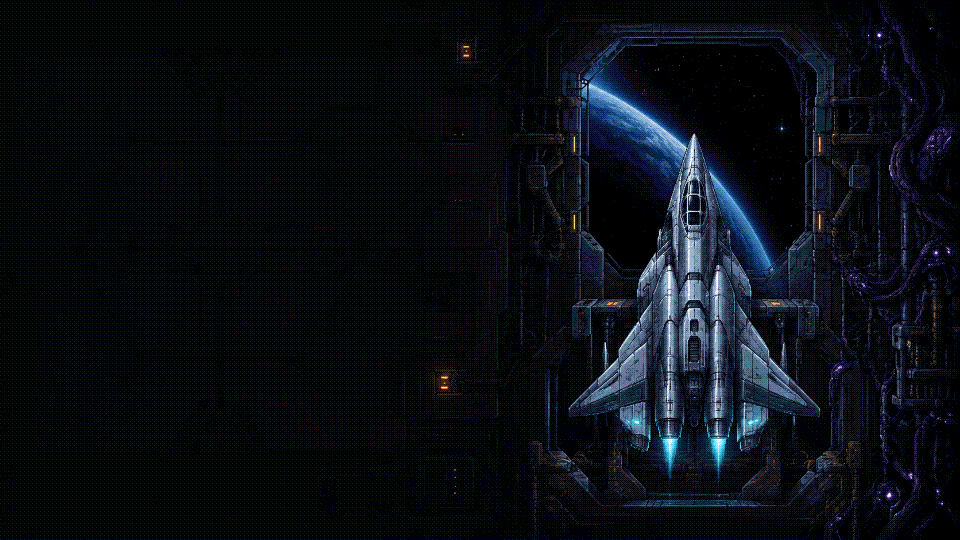
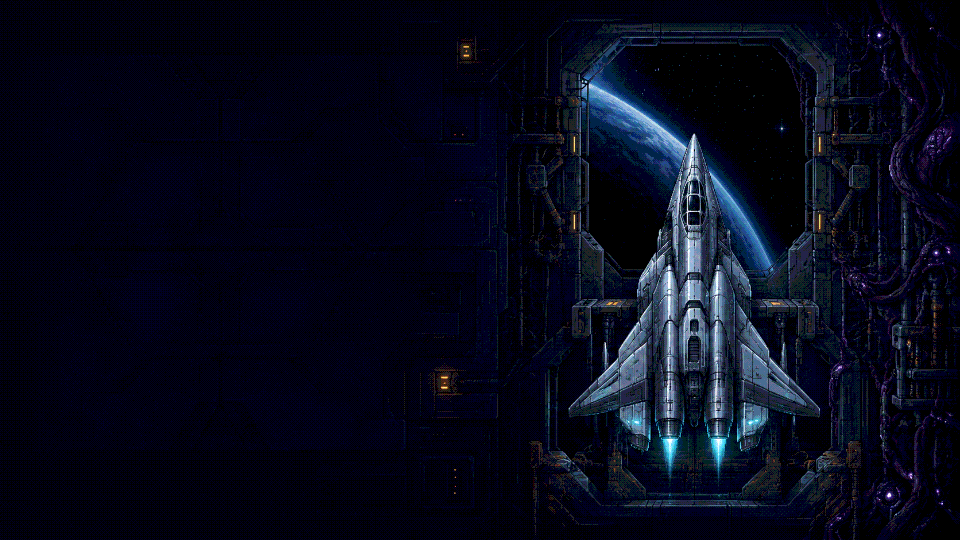
Hero art: gentler dither, half-size render for home; fix narrow-screen grids
The 6/8/6-level dither produced moire when the hero was scaled down on
the home page. Now 8 levels per channel, quieter dither, and the home
page uses a 480x270 render shown at 1:1. Grid columns use minmax(0,1fr)
so long words can't force horizontal scroll on phones.
tools/render-hero.js regenerates both PNGs from the game's WebP.

diff --git a/tools/render-hero.js b/tools/render-hero.js
@@ -1,0 +1,38 @@
+#!/usr/bin/env node
+// Renders assets/spore-wars/hangar.png (960x540) and hangar-half.png (480x270) from the game's
+// menu_hangar.webp: cover-crop, then 4x4 ordered dither to an 8-level-per-channel palette so the
+// PNG is small and looks like a VGA-era image. Uses headless Chrome, no npm packages.
+// Usage: node tools/render-hero.js [path/to/menu_hangar.webp]
+const {execFileSync}=require('child_process'),fs=require('fs'),path=require('path'),os=require('os');
+const SRC=path.resolve(process.argv[2]||path.join(__dirname,'..','..','spore-wars','assets','menu_hangar.webp'));
+const CHROME=[process.env.CHROME,'C:/Program Files/Google/Chrome/Application/chrome.exe',
+  'C:/Program Files (x86)/Microsoft/Edge/Application/msedge.exe','/Applications/Google Chrome.app/Contents/MacOS/Google Chrome',
+  '/usr/bin/google-chrome','/usr/bin/chromium'].filter(Boolean).find(p=>fs.existsSync(p));
+if(!CHROME){console.error('No Chrome/Edge found; set CHROME=<path>');process.exit(1);}
+const OUT=path.join(__dirname,'..','assets','spore-wars');fs.mkdirSync(OUT,{recursive:true});
+const tmp=fs.mkdtempSync(path.join(os.tmpdir(),'640k-hero-'));
+const toUrl=p=>'file:///'+p.split(path.sep).join('/').replace(/ /g,'%20');
+const srcUrl=toUrl(SRC);
+for(const [W,H,name] of [[960,540,'hangar'],[480,270,'hangar-half']]){
+  const page=path.join(tmp,name+'.html');
+  fs.writeFileSync(page,`<body><div id="out"></div><script>
+const W=${W},H=${H},img=new Image();
+img.onload=()=>{const c=document.createElement('canvas');c.width=W;c.height=H;const x=c.getContext('2d');
+ const s=Math.max(W/img.width,H/img.height),dw=img.width*s,dh=img.height*s;
+ x.drawImage(img,(W-dw)*0.62,(H-dh)*0.5,dw,dh);
+ const d=x.getImageData(0,0,W,H),p=d.data,B=[[0,8,2,10],[12,4,14,6],[3,11,1,9],[15,7,13,5]];
+ const L=8,q=v=>Math.round(v*(L-1)/255)*255/(L-1);
+ for(let y=0;y<H;y++)for(let xx=0;xx<W;xx++){const i=(y*W+xx)*4,t=(B[y&3][xx&3]/16-0.5)*(255/20);
+  for(let k=0;k<3;k++)p[i+k]=q(Math.max(0,Math.min(255,p[i+k]+t)));}
+ x.putImageData(d,0,0);document.getElementById('out').textContent=c.toDataURL('image/png').split(',')[1];};
+img.onerror=()=>document.getElementById('out').textContent='IMGERR';img.src=${JSON.stringify(srcUrl)};
+</script></body>`);
+  const dom=execFileSync(CHROME,['--headless=new','--disable-gpu','--no-first-run','--allow-file-access-from-files',
+    '--user-data-dir='+path.join(tmp,'profile'),'--virtual-time-budget=20000','--dump-dom',toUrl(page)],
+    {maxBuffer:64*1024*1024,stdio:['ignore','pipe','ignore']}).toString();
+  const m=dom.match(/<div id="out">([A-Za-z0-9+\/=]+)<\/div>/);
+  if(!m){console.error(name+': render failed (image not found?)');process.exit(1);}
+  const out=path.join(OUT,name+'.png');fs.writeFileSync(out,Buffer.from(m[1],'base64'));
+  console.log('wrote',path.relative(process.cwd(),out),W+'x'+H,(fs.statSync(out).size/1024|0)+'KB');
+}
+fs.rmSync(tmp,{recursive:true,force:true});

diff --git a/css/style.css b/css/style.css
@@ -77,7 +77,7 @@ h1, h2, h3 {
   color: var(--amber); font-weight: 700; text-transform: uppercase;
   letter-spacing: .06em; line-height: 1.2; margin: 0 0 .6em;
 }
-h1 { font-size: clamp(26px, 4vw, 40px); }
+h1 { font-size: clamp(26px, 4vw, 40px); overflow-wrap: anywhere; }
 h2 { font-size: clamp(20px, 3vw, 26px); margin-top: 2em; }
 h3 { font-size: 17px; color: var(--white); margin-top: 1.6em; }
 h1::before, h2::before { content: "> "; color: var(--grey); }
@@ -115,14 +115,14 @@ hr { border: 0; border-top: 1px dashed var(--line); margin: 2.5em 0; }
 .btn[aria-disabled="true"] { opacity: .45; cursor: default; pointer-events: none; }
 
 /* ---- Home hero ---- */
-.hero { display: grid; grid-template-columns: 1fr 1fr; gap: 32px; align-items: center; }
-@media (max-width: 760px) { .hero { grid-template-columns: 1fr; } }
+.hero { display: grid; grid-template-columns: minmax(0,1fr) minmax(0,1fr); gap: 32px; align-items: center; }
+@media (max-width: 760px) { .hero { grid-template-columns: minmax(0,1fr); } }
 .hero figure { margin: 0; border: 4px double var(--line); background: var(--black); }
 .hero figure img { width: 100%; aspect-ratio: 16 / 9; object-fit: cover; }
 .tagline { font-size: 18px; color: var(--grey); margin-bottom: 1.5em; }
 
 /* Game cards on home / games list */
-.games { display: grid; grid-template-columns: repeat(auto-fill, minmax(280px, 1fr)); gap: 20px; }
+.games { display: grid; grid-template-columns: repeat(auto-fill, minmax(min(280px, 100%), 1fr)); gap: 20px; }
 .card { background: var(--panel); border: 4px double var(--line); padding: 0; }
 .card img { width: 100%; aspect-ratio: 16 / 9; object-fit: cover; border-bottom: 1px solid var(--line); }
 .card .body { padding: 16px 20px 20px; }

diff --git a/index.html b/index.html
@@ -38,14 +38,14 @@
       </p>
     </div>
     <figure>
-      <img src="assets/spore-wars/hangar.png" width="960" height="540" alt="A silver starfighter parked in a hangar bay, a blue planet behind it" loading="eager">
+      <img src="assets/spore-wars/hangar-half.png" width="480" height="270" alt="A silver starfighter parked in a hangar bay, a blue planet behind it" loading="eager">
     </figure>
   </section>
 
   <h2>Now in development</h2>
   <div class="games">
     <article class="card">
-      <a href="games/spore-wars.html"><img src="assets/spore-wars/hangar.png" width="960" height="540" alt="" loading="lazy"></a>
+      <a href="games/spore-wars.html"><img src="assets/spore-wars/hangar-half.png" width="480" height="270" alt="" loading="lazy"></a>
       <div class="body">
         <span class="badge">In development</span>
         <h3><a href="games/spore-wars.html">Spore Wars</a></h3>

diff --git a/README.md b/README.md
@@ -13,7 +13,9 @@ credits.html            studio-wide licence notes; links to each game's attribut
 404.html                GitHub Pages serves this for missing pages
 css/style.css           the whole look; colours are the brand palette (see Logo/README.md)
 assets/logo/            copies of the brand exports — the master is the Logo repo, never edit these here
-assets/spore-wars/      hangar.png: hero art, 960x540, dithered to a reduced palette (~300 KB)
+assets/spore-wars/      hangar.png (960x540, game page) and hangar-half.png (480x270, home) — the game's
+                        menu_hangar.webp, cover-cropped and ordered-dithered to 512 colours. Regenerate
+                        with tools/render-hero.js when the game art changes
 .nojekyll               tells GitHub Pages to serve files as-is
 ```
 
